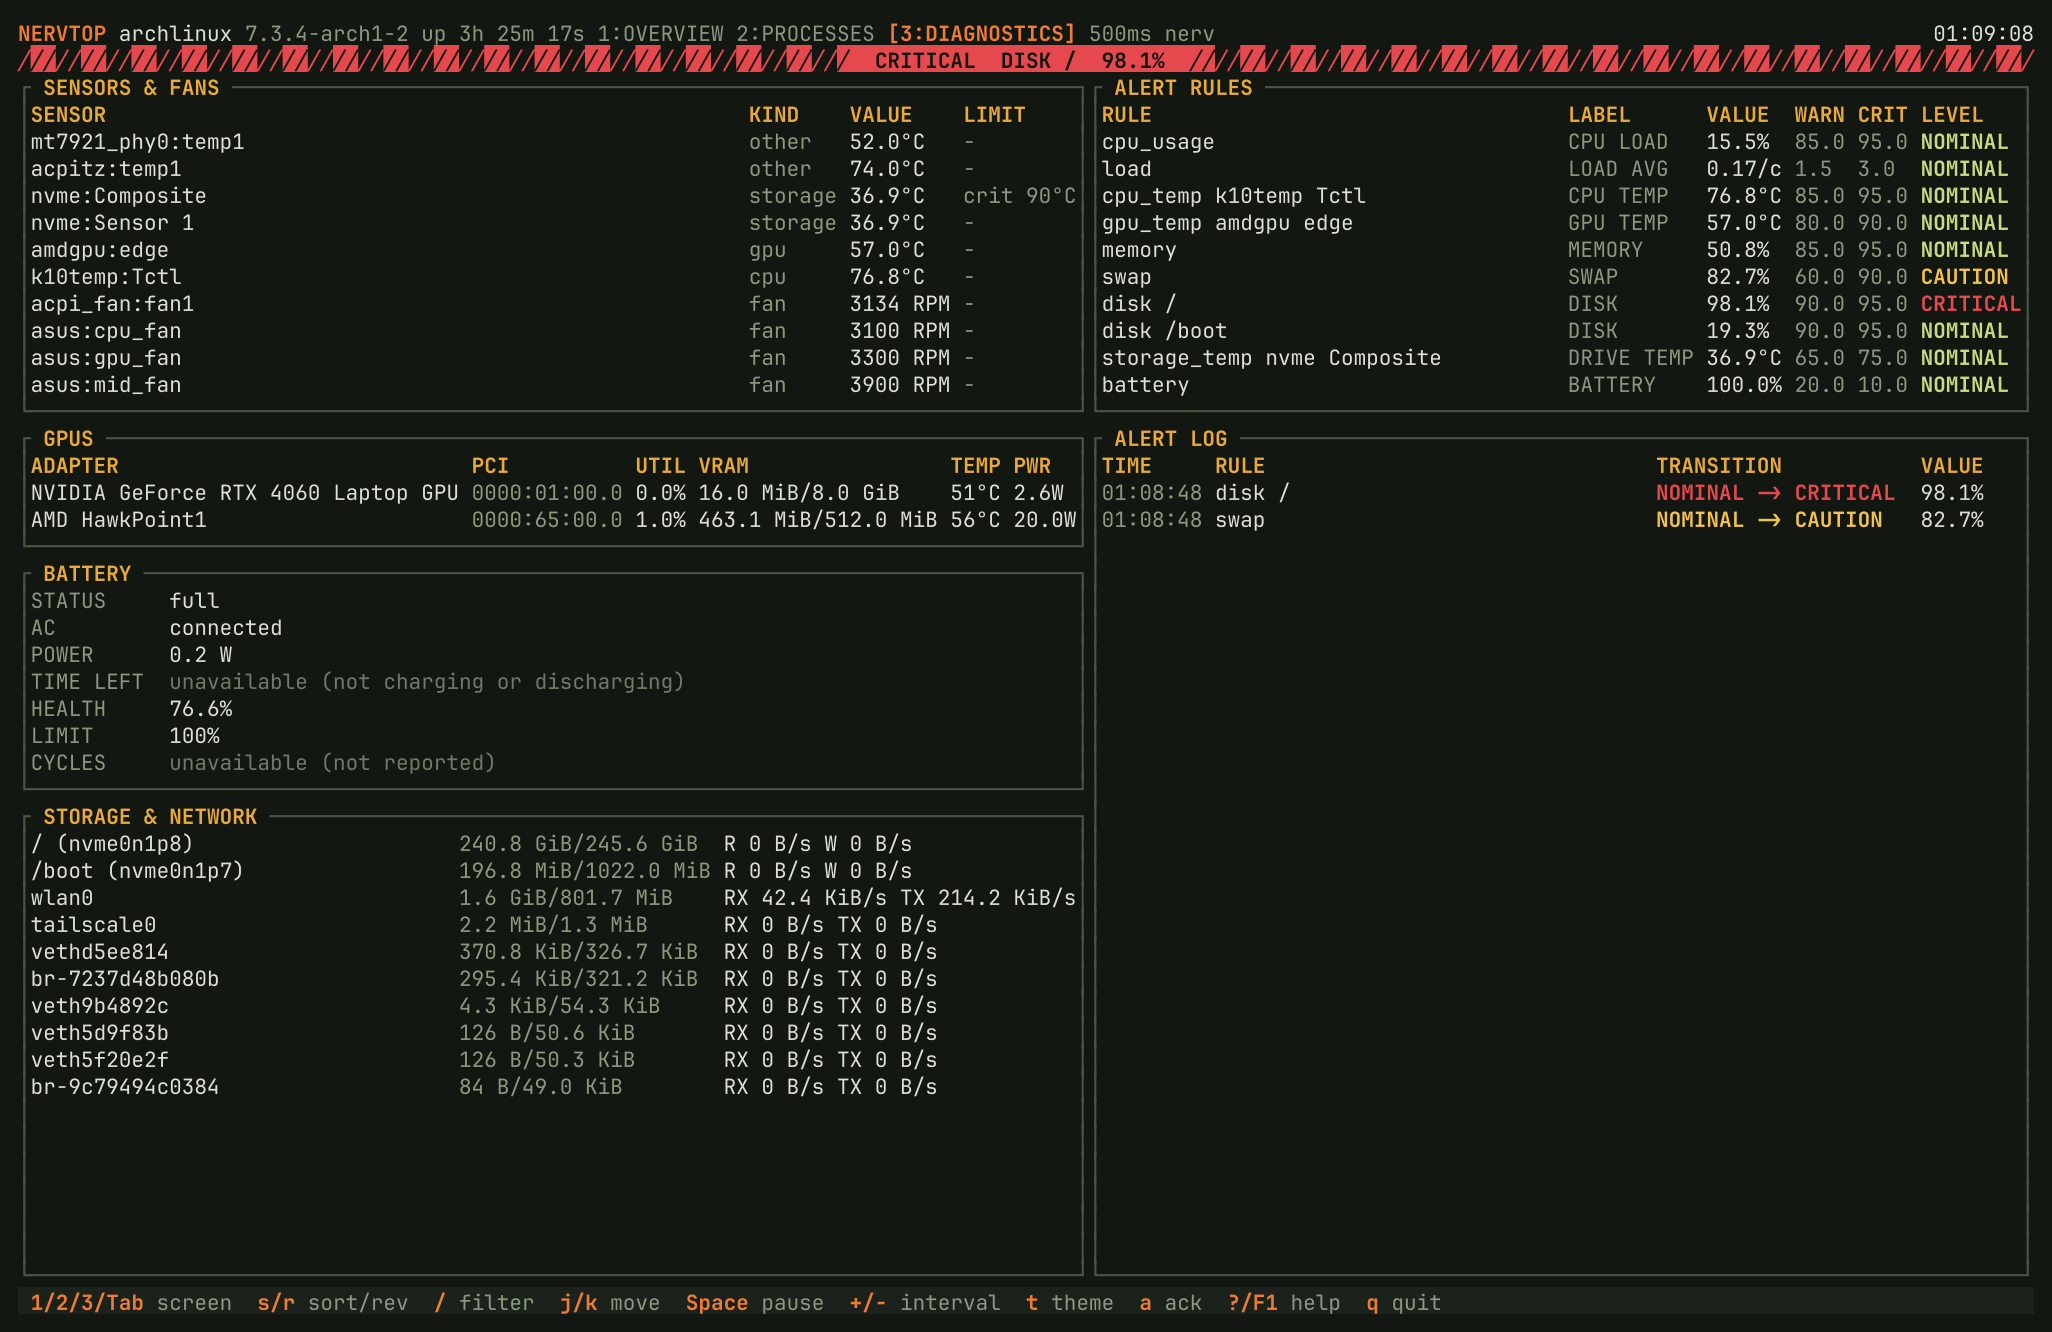
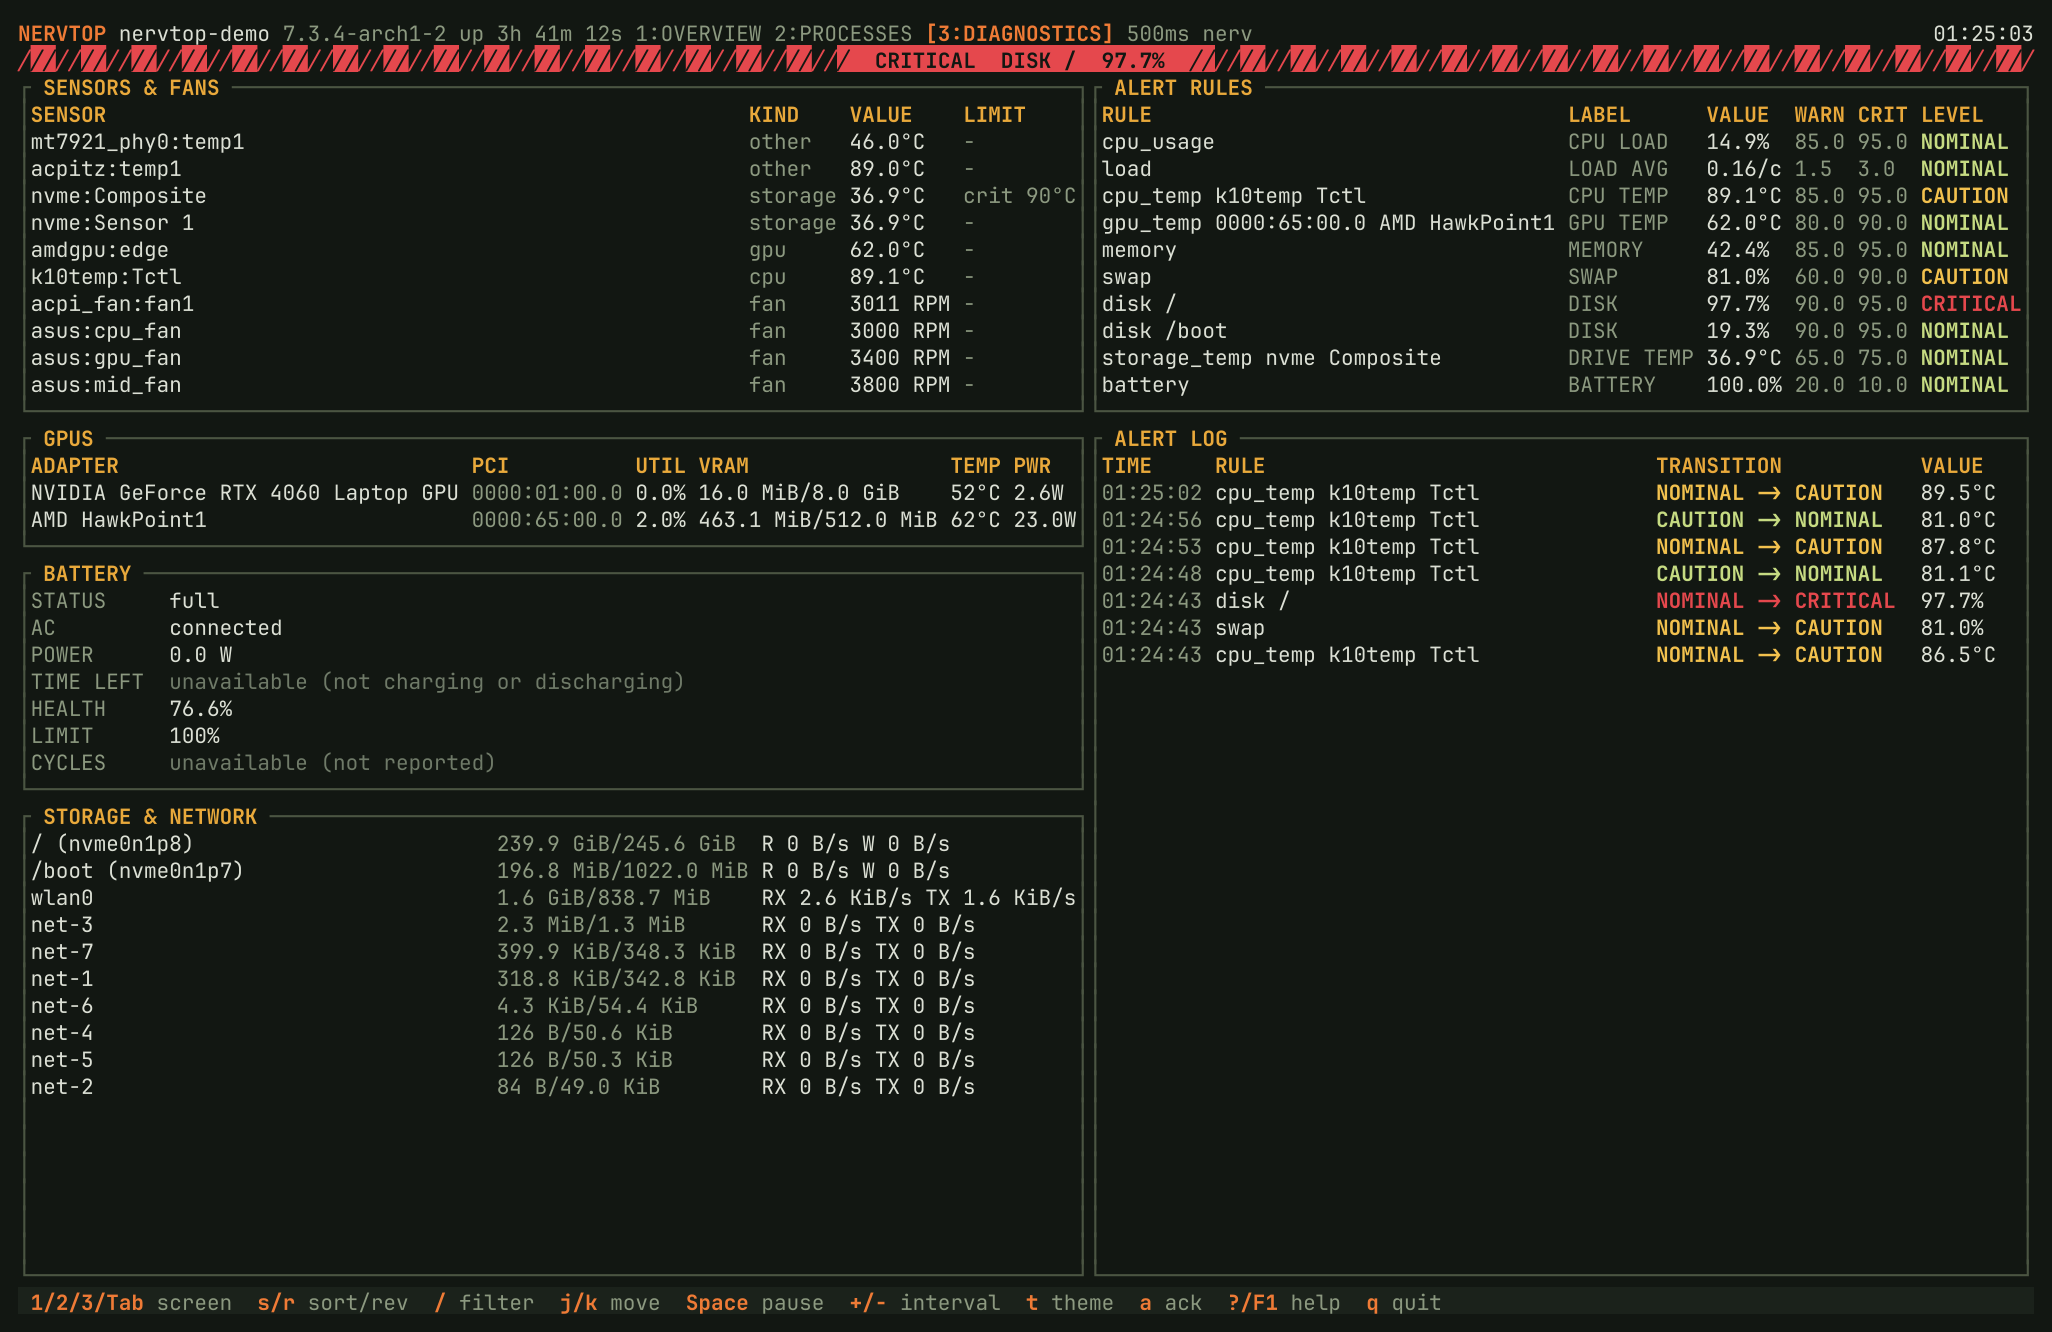
Regenerate README screenshots with --redact and document it

diff --git a/README.md b/README.md
@@ -10,6 +10,7 @@ Per-core CPU, memory, GPUs, temperatures and fans, storage, network, battery and
 ![nervtop overview screen with live data](docs/screenshots/overview.png)
 
 The screenshot is the real program with live data from an ASUS laptop, rendered by `scripts/screenshots.sh`; the root filesystem really was 98 percent full, which is why the banner is up.
+The screenshots use `--redact`, so the hostname, user names, non-generic process names and non-standard network interface names are replaced with neutral labels (`nervtop-demo`, `user`, `app-07`, `net-2`); every number is real.
 
 nervtop is the terminal companion to [NERV Fieldnotes](https://github.com/bananatruck/nerv-fieldnotes) and shares its palette: a charcoal green ground, amber headings, orange accents and pale green for healthy values.
 The look borrows the language of an anime control room (hexagonal status cells, warning-stripe banners, a three-way vote) as original work.
@@ -195,6 +196,7 @@ Usage: nervtop [OPTIONS]
   --size WxH          Screenshot size, 80x24 to 500x200 (default 120x40)
   --screen NAME       overview, processes, diagnostics (screenshot only)
   --samples N         Samples taken before the screenshot, 1 to 600 (default 4)
+  --redact            With --once or --screenshot: mask host, user, process and interface names
   -h, --help          Print help
   -V, --version       Print version
 
@@ -203,6 +205,7 @@ Use --print-config to see all configuration keys and defaults.
 
 `nervtop --once` prints a plain text report of every reading (the 15 busiest processes rather than the full list), every rule and the consensus, which is handy over SSH or in a script.
 `nervtop --once --json` prints the full snapshot, every rule and the consensus as JSON for other tools and agents.
+Add `--redact` to `--once` or `--screenshot` before sharing the output: it masks the hostname, user names other than system accounts, process names outside a short list of generic programs, network interface names other than `lo`, `ethN`, `wlanN` and predictable `en*` or `wl*` names, and `/home/<name>` mount points, and leaves every number unchanged.
 A one-shot report has no history, so its alert levels are instantaneous (sustain 1).
 
 ## Where the numbers come from

diff --git a/docs/SPEC.md b/docs/SPEC.md
@@ -148,6 +148,7 @@ Unknown keys and invalid values are errors that name the key, printed before the
 | `--screenshot PATH` | Render the real UI with live data to an SVG file and exit |
 | `--size WxH` | Terminal size for `--screenshot`, default 120x40 |
 | `--screen NAME` | Screen for `--screenshot`: overview, processes, diagnostics |
+| `--redact` | With `--once` or `--screenshot`: replace the hostname, non-system user names, process names outside a list of generic programs, non-standard interface names and `/home/<name>` mount points with neutral labels, before alerts are evaluated; numbers are unchanged |
 | `--samples N` | Samples taken one interval apart before `--screenshot` renders, 1 to 600, default 4, so history and sustained alert levels are real |
 | `-h`, `--help` and `-V`, `--version` | Help and version |
 
